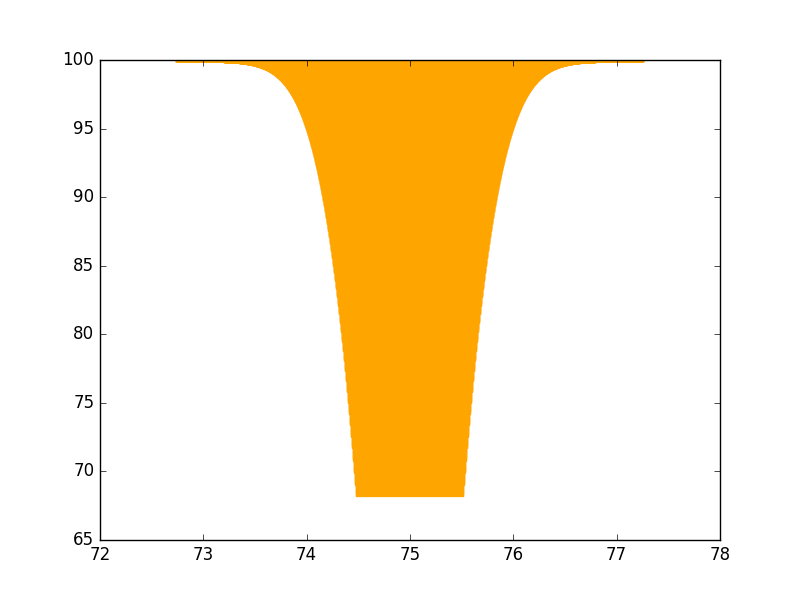
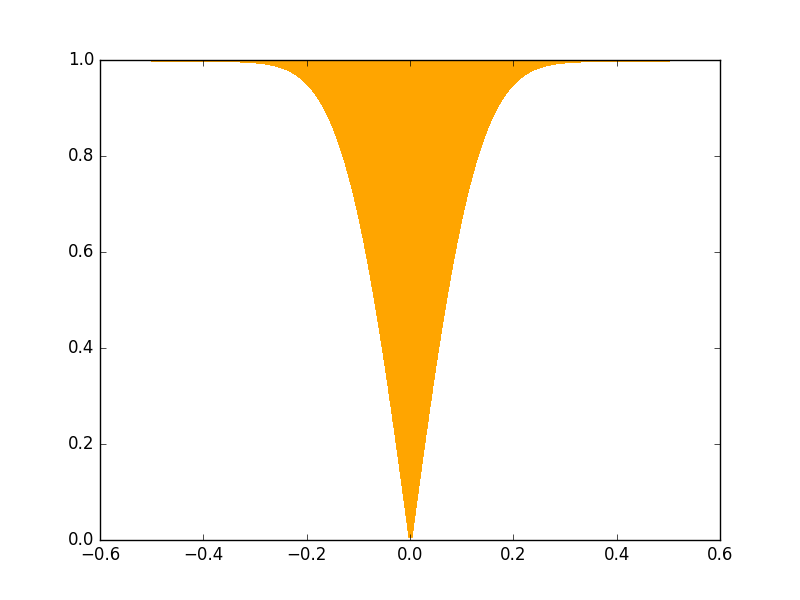
fixed

diff --git a/expectation.py b/expectation.py
@@ -5,28 +5,29 @@ import math
 from matplotlib import pyplot
 import numpy
 
-def getExpectation(xbar, s, n, a=1, b=4.5, nbins=100, rndnum=4, pr=False, pl=True, sh=True, plfn=None):
+def getExpectation(xbar, s, n, a=1, b=4.5, nbins=100, pr=False, pl=True, sh=True, plfn=None):
 	arr = []
 	fig = None
 	ax = None
 	if pl:
 		fig = pyplot.figure()
 		ax = fig.add_subplot(1, 1, 1)
-		if sh:
-			pyplot.show()
 	fr = int(a * nbins)
 	ds = int(b * nbins)
 	for za in range(fr, ds, 1):
-		exp = round(integTrap(z, 0, za/nbins, nbins)*2, rndnum+2)
-		mp = round(xbar + ((za/nbins) * (s/math.sqrt(n))), rndnum)
-		mn = round(xbar - ((za/nbins) * (s/math.sqrt(n))), rndnum)
+		exp = integTrap(z, 0, za/nbins, nbins)*2
+		mp = xbar + ((za/nbins) * (s/math.sqrt(n)))
+		mn = xbar - ((za/nbins) * (s/math.sqrt(n)))
 		if pl:
 			ax.plot([mn, mp], [exp, exp], color='orange', linewidth=2)
 		if pr:
-			print("%s - %s : [%s, %s]" % (round(za/nbins, rndnum), exp, mn, mp))
-		arr.append((za/nbins, round(exp*100, rndnum), mn, mp))
+			print("%s - %s : [%s, %s]" % (za/nbins, exp, mn, mp))
+		arr.append((za/nbins, exp, mn, mp))
 	if pl and plfn:
-		pyplot.savefig(filename)
+		pyplot.savefig(plfn)
+	if pl and sh:
+		pyplot.show()
+	print("Done!")
 	if pl:
 		return {'array':arr, 'figure':fig, 'axis':ax}
 	else:

diff --git a/main.py b/main.py
@@ -2,5 +2,5 @@
 
 from expectation import *
 
-dic = getExpectation(xbar=75, s=4, n=64, a=1, b=4.5, nbins=1000, rndnum=5, pr=True, pl=True, sh=True, plfn='result.png')
+dic = getExpectation(xbar=0, s=1, n=100, a=0.01, b=5, nbins=500, pr=True, pl=True, sh=True, plfn='result.png')
 
